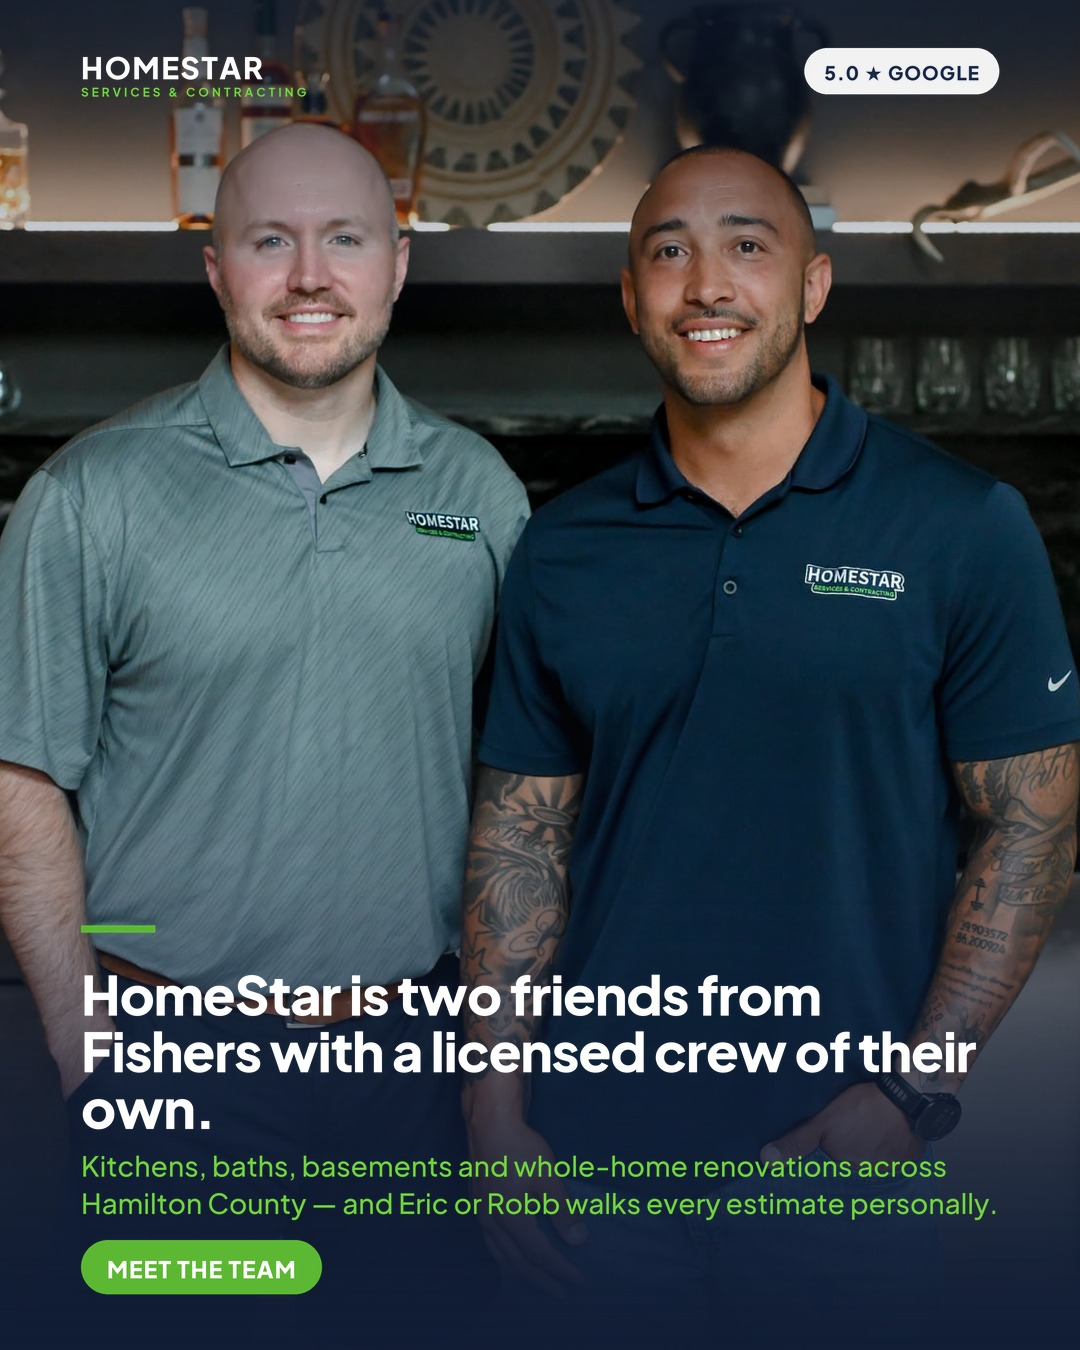
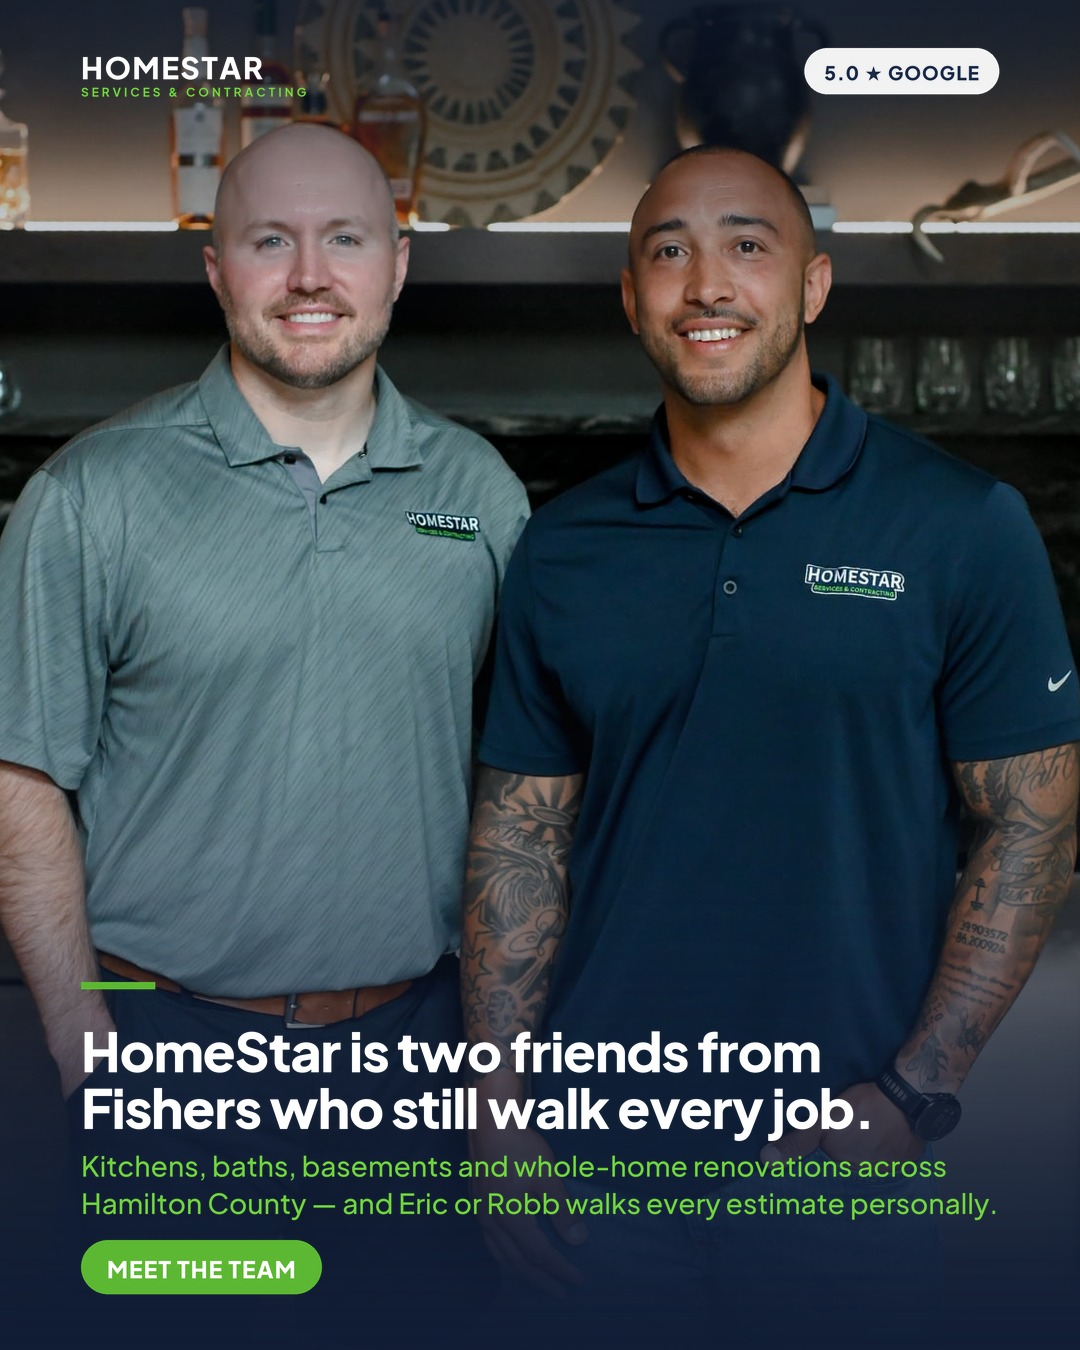
The retired claim was in the artwork too; faster hook everywhere
Eric spotted the old copy still live on Instagram. Two things the earlier
sweep missed:

The claim is baked into the 06 creative itself - the plate reads "HomeStar
is two friends from Fishers with a licensed crew of their own". Fixing ad
text alone would have left it on screen in every placement. The headline is
now "two friends from Fishers who still walk every job", which keeps what
made the ad work - two named people, a real place - and drops the promise
about who holds the tools. All three placements regenerated.

The Instagram version is not an organic post. Checked the last 50 items in
the IG feed and it is not among them, so it is the ad placement of the same
dark post, and it changes in Ads Manager with the Facebook one.

Also in this pass, on Eric's steer to lead: the hook plate used to start
fading at 0.30s over 0.80s, so the sentence was not legible until about
1.10s - more than a third of the three-second window that decides whether
anyone watches. It now lands by roughly 0.35s. That is the one thing the
virality predictor actually measured a difference on: hook 33-37 against
sustain 94-98. The work holds people once they start; it was not getting
them to start.

The cascade end card is enabled on every project in both builders, and the
before/after builder now imports the same animate_endcard rather than
carrying a copy, so the two families cannot drift apart.

Changed region(s): [[0.0611, 0.6844, 0.9167, 0.84]]

diff --git a/marketing/meta-ads/build_progress.py b/marketing/meta-ads/build_progress.py
@@ -28,7 +28,16 @@ OUT_DIR = os.path.join(HERE, "renders")
 W, H, FPS = 1080, 1920, 30
 XFADE = 0.4
 END_DUR = 3.6
-HOOK_FADE_IN, HOOK_FADE_OUT = 0.80, 0.75
+# The hook used to fade in over 0.80s starting at 0.30s, so it was not fully
+# legible until about 1.10s. The hook window on a reel is roughly the first
+# three seconds, which meant more than a third of it was spent making the
+# sentence appear. The one metric the virality predictor actually varied on
+# was hook strength - 33 to 37 across our cuts, against sustain in the 90s.
+# People who start watching stay; the problem is getting them to start.
+#
+# The proposition is now readable almost immediately. Still a fade, just a
+# quick one.
+HOOK_FADE_IN, HOOK_FADE_OUT = 0.35, 0.75
 BEAT_FADE_IN, BEAT_FADE_OUT = 0.75, 0.85
 MUSIC_LUFS = -20
 FADE_IN, FADE_OUT = 1.2, 2.2
@@ -53,6 +62,7 @@ PROJECTS = {
     #   geist upper level(1).mp4  clear 0-1.8, 4.0-10.6
     "geist-progress": dict(
         out="F8-geist-upper-level-progress",
+        animated_end=True,
         slug="geist-upper-level-remodel",
         music=("Brisa de Nylon.mp3", 48.8),
         ad={
@@ -93,6 +103,7 @@ PROJECTS = {
     # People: noblesville bathroom 2 has a hand in frame 8-10s. Avoided.
     "noblesville-progress": dict(
         out="F9-noblesville-waterproofing-to-finished",
+        animated_end=True,
         slug="floor-to-ceiling-tile-noblesville",
         music=("Before _ After (1).mp3", 83.8),
         ad={
@@ -141,6 +152,7 @@ PROJECTS = {
     #   spa retreat fishers.mp4      clear throughout
     "spa-retreat-progress": dict(
         out="FA-spa-retreat-fishers-stages",
+        animated_end=True,
         slug="spa-retreat-bathroom-fishers",
         music=("Brisa de Nylon (1).mp3", 59.2),
         ad={
@@ -171,6 +183,7 @@ PROJECTS = {
     # +0.1 dBTP in the source; loudnorm pulls that well clear, as verified on FB.
     "zionsville-craft": dict(
         out="FC-zionsville-mosaic-craft",
+        animated_end=True,
         slug="jack-and-jill-zionsville",
         music=("Arco d_Avanguardia (1).mp3", 138.5),
         ad={
@@ -204,6 +217,7 @@ PROJECTS = {
     # clip. Nothing after 34s is used.
     "fishers-fullgut": dict(
         out="FD-fishers-full-gut-walk-in",
+        animated_end=True,
         slug="fishers-full-gut-walk-in",
         music=("Before _ After.mp3", 92.5),
         ad={
@@ -237,6 +251,7 @@ PROJECTS = {
     # Native 4K at 39 Mbps, so nothing needs upscaling. No people in frame.
     "carmel-double": dict(
         out="FE-carmel-double-shower",
+        animated_end=True,
         slug="double-shower-carmel",
         # Arco was too bold over this room. Quiet Neon instead - cool and minimal,
         # which suits charcoal cabinetry, black fixtures and a backlit mirror
@@ -268,6 +283,7 @@ PROJECTS = {
     # vertical tile runs floor to ceiling "including the shower ceiling".
     "wet-room": dict(
         out="FF-fishers-wet-room-walkthrough",
+        animated_end=True,
         slug="wet-room-bathroom-fishers",
         music=("Brisa de Nylon.mp3", 48.8),
         ad={
@@ -310,6 +326,7 @@ PROJECTS = {
     # job read as deliberate.
     "geist-finished": dict(
         out="FG-geist-upper-level-finished",
+        animated_end=True,
         slug="geist-upper-level-remodel",
         music=("Brisa de Nylon.mp3", 48.8),
         ad={
@@ -339,6 +356,7 @@ PROJECTS = {
     # Bright and clean, matching light oak, white quartz and a lot of daylight.
     "fishers-double": dict(
         out="FH-fishers-double-shower",
+        animated_end=True,
         slug="double-shower-fishers",
         # Eric rejected American Reveal here. Measured, it is the brightest track
         # in the library (0.292 on a high-frequency-energy ratio, against 0.10-0.19
@@ -372,6 +390,7 @@ PROJECTS = {
     # than the Carmel bath it was wrong for, and the only track left unused.
     "spa-finished": dict(
         out="FI-fishers-spa-retreat-finished",
+        animated_end=True,
         slug="spa-retreat-bathroom-fishers",
         # Arco was rejected here too, and the numbers agree - 1.72 onsets/second
         # and 0.188 brightness. Before / After is the calmest track in the library
@@ -416,6 +435,7 @@ PROJECTS = {
     # every selection routed back to her two time zones away.
     "zionsville-basement": dict(
         out="FM-zionsville-basement-bar",
+        animated_end=True,
         slug="zionsville-basement-bar-wine-room",
         music=("American Reveal.mp3", 113.0),
         ad={
@@ -448,6 +468,7 @@ PROJECTS = {
     # is stated rather than inferred from a video still.
     "geist-tile": dict(
         out="FL-geist-navy-picket-craft",
+        animated_end=True,
         slug="three-bathroom-remodel-geist",
         # The one track in the library never used. Arco has drive, which suits
         # a craft cut; its sibling already carries FC, the Zionsville mosaic.
@@ -495,9 +516,9 @@ PROJECTS = {
     # project page is cited and no one job is credited.
     "six-floors": dict(
         out="FO-six-floors",
+        animated_end=True,
         slug=None,
         # Demo of the ident integrated as the end-card reveal.
-        animated_end=True,
         # Arco rejected by Eric. It is the brightest family in the library and
         # he has now turned it down twice. Quiet Neon is the one he approved by
         # name on the Carmel double.
@@ -542,6 +563,7 @@ PROJECTS = {
     #   geist three bath tile.mp4    no crew anywhere, whole clip is the wall
     "under-the-tile": dict(
         out="FP-whats-under-your-tile",
+        animated_end=True,
         slug=None,
         music=("Brisa de Nylon (1).mp3", 59.2),
         ad={
@@ -564,6 +586,7 @@ PROJECTS = {
 
     "laundry-checker": dict(
         out="FJ-checkerboard-floor",
+        animated_end=True,
         slug=None,
         music=("Before _ After.mp3", 92.5),
         ad={
@@ -881,7 +904,7 @@ def build(key):
         else:
             cmd += ["-loop", "1", "-t", f"{dur:.2f}", "-i", src]
     parts.append(f"[{n}:v]format=rgba,fade=t=in:st=0.25:d=0.7:alpha=1[lg]")
-    parts.append(f"[{n+1}:v]format=rgba,fade=t=in:st=0.30:d={HOOK_FADE_IN}:alpha=1,"
+    parts.append(f"[{n+1}:v]format=rgba,fade=t=in:st=0.06:d={HOOK_FADE_IN}:alpha=1,"
                  f"fade=t=out:st={hook_out:.2f}:d={HOOK_FADE_OUT}:alpha=1[hk]")
     parts.append(f"[{n+2}:v]format=rgba,fade=t=in:st={beat_in:.2f}:d={BEAT_FADE_IN}:alpha=1,"
                  f"fade=t=out:st={beat_out - BEAT_FADE_OUT:.2f}:d={BEAT_FADE_OUT}:alpha=1[bt]")

diff --git a/marketing/meta-ads/build_beforeafter.py b/marketing/meta-ads/build_beforeafter.py
@@ -19,6 +19,9 @@ import imageio_ffmpeg
 from PIL import Image, ImageFilter
 
 import build_ads as BRAND
+# Same animated end card the progress builder uses - one implementation,
+# so the two families of reel cannot drift apart visually.
+from build_progress import animate_endcard
 import build_video_ads as V
 
 FF = imageio_ffmpeg.get_ffmpeg_exe()
@@ -41,7 +44,16 @@ ST = lambda key, n: os.path.join(HERE, "_stills", key, "%02d.mp4" % n)
 W, H, FPS = 1080, 1920, 30
 XFADE = 0.4
 END_DUR = 3.6
-HOOK_FADE_IN, HOOK_FADE_OUT = 0.80, 0.75
+# The hook used to fade in over 0.80s starting at 0.30s, so it was not fully
+# legible until about 1.10s. The hook window on a reel is roughly the first
+# three seconds, which meant more than a third of it was spent making the
+# sentence appear. The one metric the virality predictor actually varied on
+# was hook strength - 33 to 37 across our cuts, against sustain in the 90s.
+# People who start watching stay; the problem is getting them to start.
+#
+# The proposition is now readable almost immediately. Still a fade, just a
+# quick one.
+HOOK_FADE_IN, HOOK_FADE_OUT = 0.35, 0.75
 BEAT_FADE_IN, BEAT_FADE_OUT = 0.75, 0.85
 MUSIC_LUFS = -20
 FADE_IN, FADE_OUT = 1.2, 2.2
@@ -53,6 +65,7 @@ FADE_IN, FADE_OUT = 1.2, 2.2
 PROJECTS = {
     "geist": dict(
         out="F6-geist-three-bath-beforeafter",
+        animated_end=True,
         slug="three-bathroom-remodel-geist",
         music=("Quiet Neon.mp3", 70.5),
         ad={
@@ -84,6 +97,7 @@ PROJECTS = {
     # frame at the right edge just after.
     "zionsville": dict(
         out="F7-zionsville-jack-and-jill-beforeafter",
+        animated_end=True,
         slug="jack-and-jill-zionsville",
         music=("Before _ After.mp3", 92.5),
         ad={
@@ -117,6 +131,7 @@ PROJECTS = {
     # the bar so that the beat, which names the mantle, lands over the mantle.
     "westfield-luxury": dict(
         out="FB-westfield-luxury-basement-beforeafter",
+        animated_end=True,
         slug="westfield-basement-masterpiece",
         # American Reveal has the steadiest 20s window in the library - spread 0.7 dB
         # against 1.1-1.7 for every other track. Least likely to lurch under a reveal.
@@ -154,6 +169,7 @@ PROJECTS = {
     # This is a two-beat reveal: gutted, then done.
     "spa-retreat": dict(
         out="FK-fishers-spa-retreat-demo-to-done",
+        animated_end=True,
         slug="spa-retreat-bathroom-fishers",
         # Calmest family in the library and distinct from both existing spa
         # cuts - FA runs Brisa de Nylon (1), FI runs Before _ After.
@@ -198,6 +214,7 @@ PROJECTS = {
     # and the room is unrecognizable."
     "white-oak": dict(
         out="FN-white-oak-primary-beforeafter",
+        animated_end=True,
         slug="white-oak-primary-bath-fishers",
         music=("Brisa de Nylon.mp3", 48.8),
         ad={
@@ -372,10 +389,13 @@ def build(key):
     n = len(segs)
     for src, dur in ((logo, body), (hook_p, body), (beat_p, body),
                      (tb_p, body), (ta_p, body), (end_p, END_DUR)):
-        cmd += ["-loop", "1", "-t", f"{dur:.2f}", "-i", src]
+        if src == end_src and end_is_video:
+            cmd += ["-i", src]
+        else:
+            cmd += ["-loop", "1", "-t", f"{dur:.2f}", "-i", src]
 
     parts.append(f"[{n}:v]format=rgba,fade=t=in:st=0.25:d=0.7:alpha=1[lg]")
-    parts.append(f"[{n+1}:v]format=rgba,fade=t=in:st=0.30:d={HOOK_FADE_IN}:alpha=1,"
+    parts.append(f"[{n+1}:v]format=rgba,fade=t=in:st=0.06:d={HOOK_FADE_IN}:alpha=1,"
                  f"fade=t=out:st={hook_out:.2f}:d={HOOK_FADE_OUT}:alpha=1[hk]")
     parts.append(f"[{n+2}:v]format=rgba,fade=t=in:st={beat_in:.2f}:d={BEAT_FADE_IN}:alpha=1,"
                  f"fade=t=out:st={beat_out - BEAT_FADE_OUT:.2f}:d={BEAT_FADE_OUT}:alpha=1[bt]")

diff --git a/marketing/meta-ads/review_data.py b/marketing/meta-ads/review_data.py
@@ -60,7 +60,7 @@ CONCEPTS = [
      "05-price-transparency"),
 
     ("06", "Who we are", "Eric &amp; Robb", False,
-     "HomeStar is two friends from Fishers with a licensed crew of their own.",
+     "HomeStar is two friends from Fishers who still walk every job.",
      "HomeStar Services &amp; Contracting is a family-owned remodeling company in Fishers, Indiana. Eric Farr and Robb Rice founded it after 20 years of friendship, and they still walk every estimate personally. We do kitchens, bathrooms, basements and whole-home renovations across Hamilton County — and unlike most remodelers, our plumbers and electricians are on our payroll rather than subcontracted. 5.0 on Google.",
      "A Fishers Remodeler, Owner-Run", "Family-owned · Hamilton County",
      "Rewritten. The first version opened “Two friends of 20 years” — which only lands if you already know the brand. This one names the company, the place and the difference before asking for trust.",

diff --git a/marketing/meta-ads/build_ads.py b/marketing/meta-ads/build_ads.py
@@ -498,7 +498,12 @@ ADS = [
         "layout": "scrim",
         "photo": "team-founders.jpg",
         "fy": 0.28,
-        "headline": "HomeStar is two friends from Fishers with a licensed crew of their own.",
+        # "with a licensed crew of their own" retired 2026-09-06. The claim was
+        # baked into the rendered plate, not just the caption, so fixing the ad
+        # text alone would have left it on screen. See the correction note in
+        # CAMPAIGN.md - it pigeonholes the business into never using a
+        # specialist sub.
+        "headline": "HomeStar is two friends from Fishers who still walk every job.",
         "h_px": 54,
         "sub": "Kitchens, baths, basements and whole-home renovations across Hamilton County — and Eric or Robb walks every estimate personally.",
         "cta": "MEET THE TEAM",
